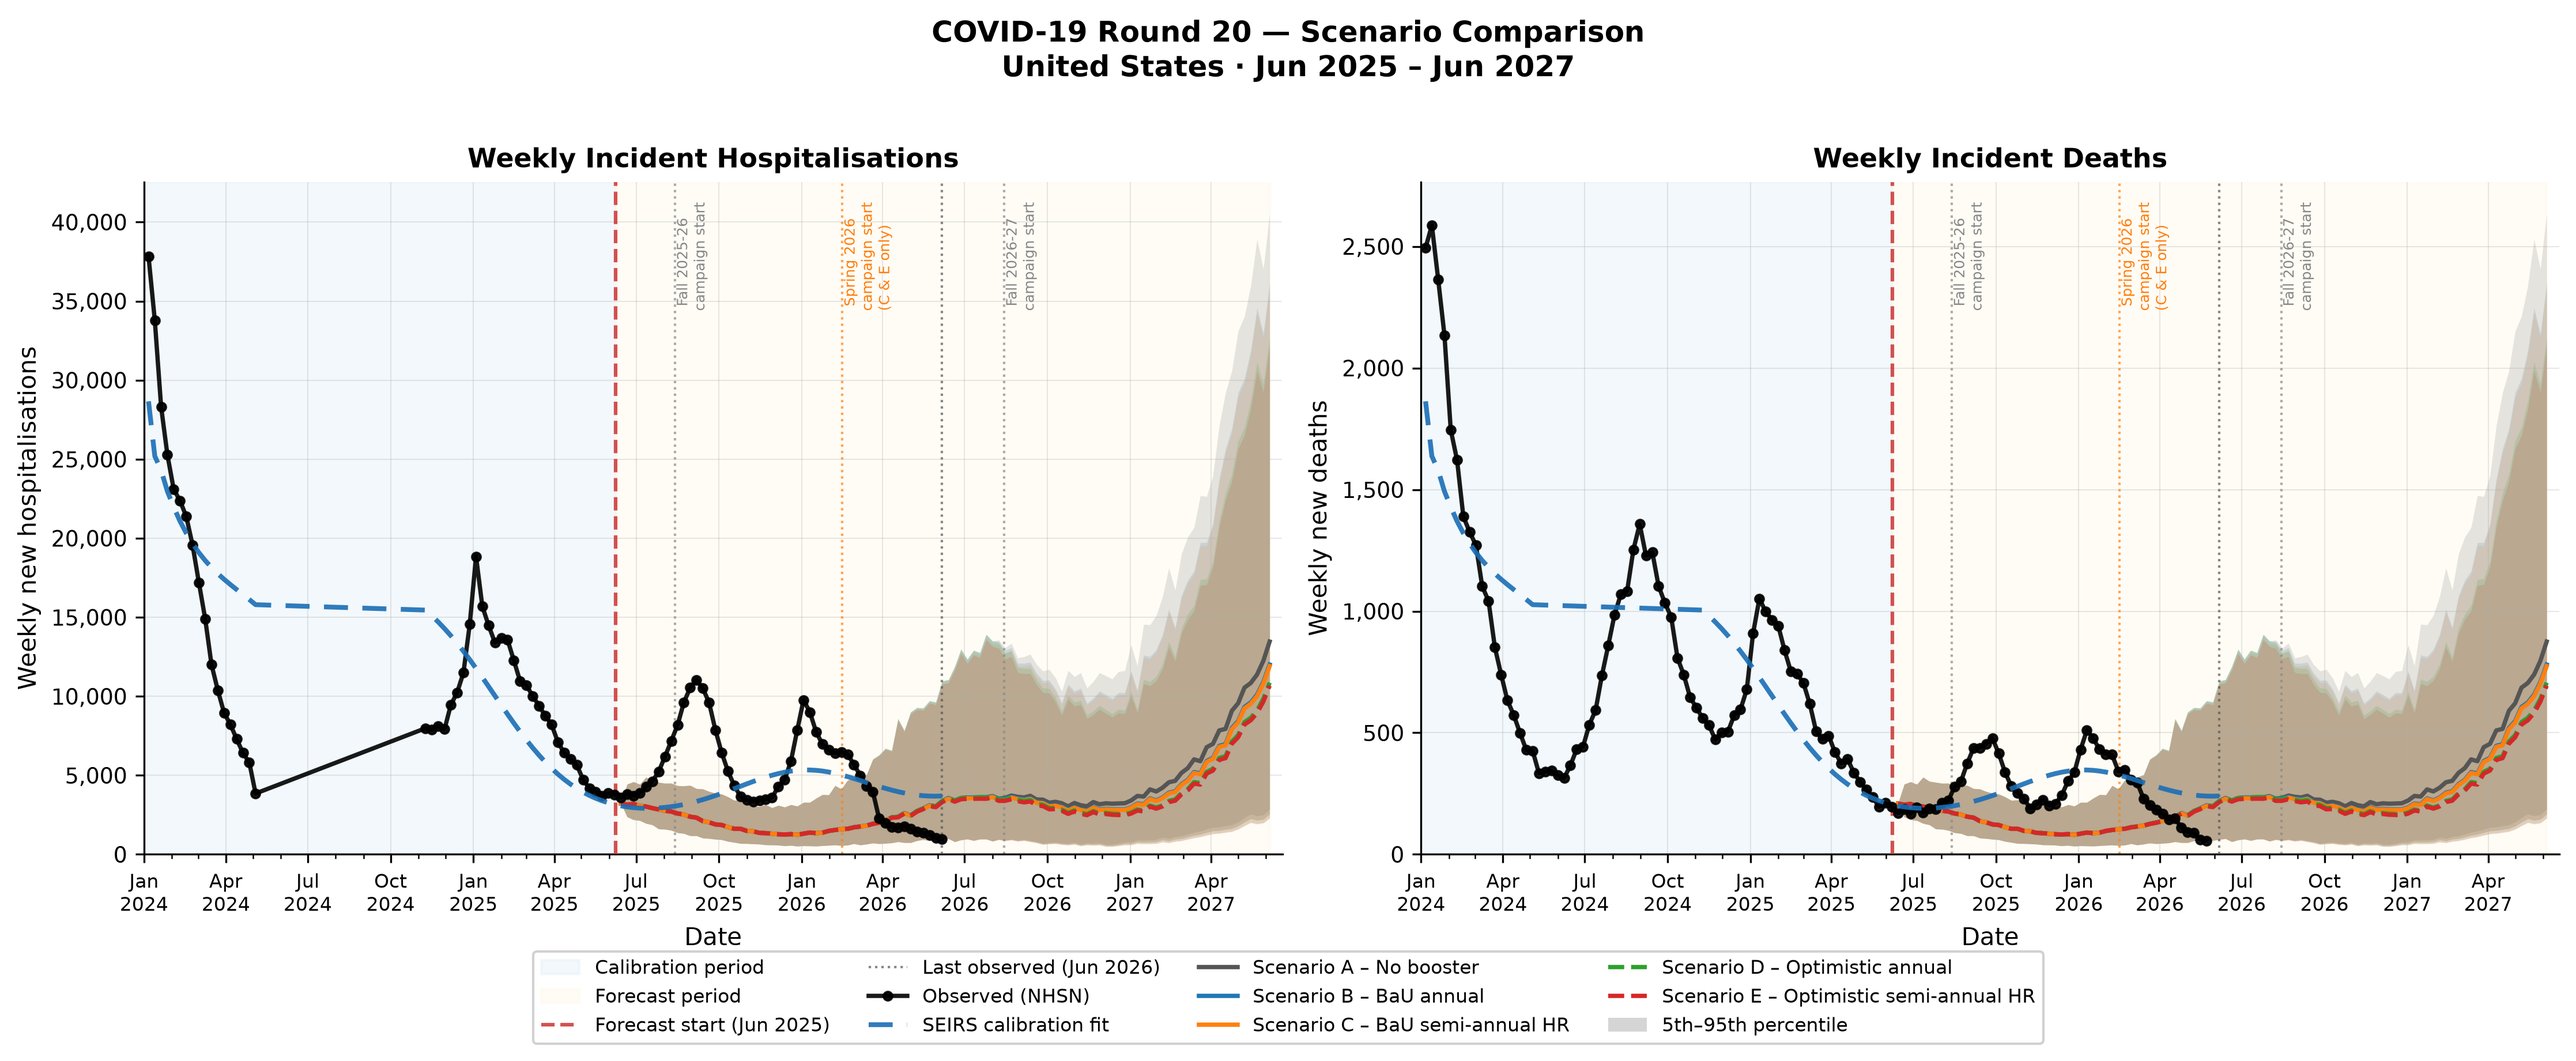
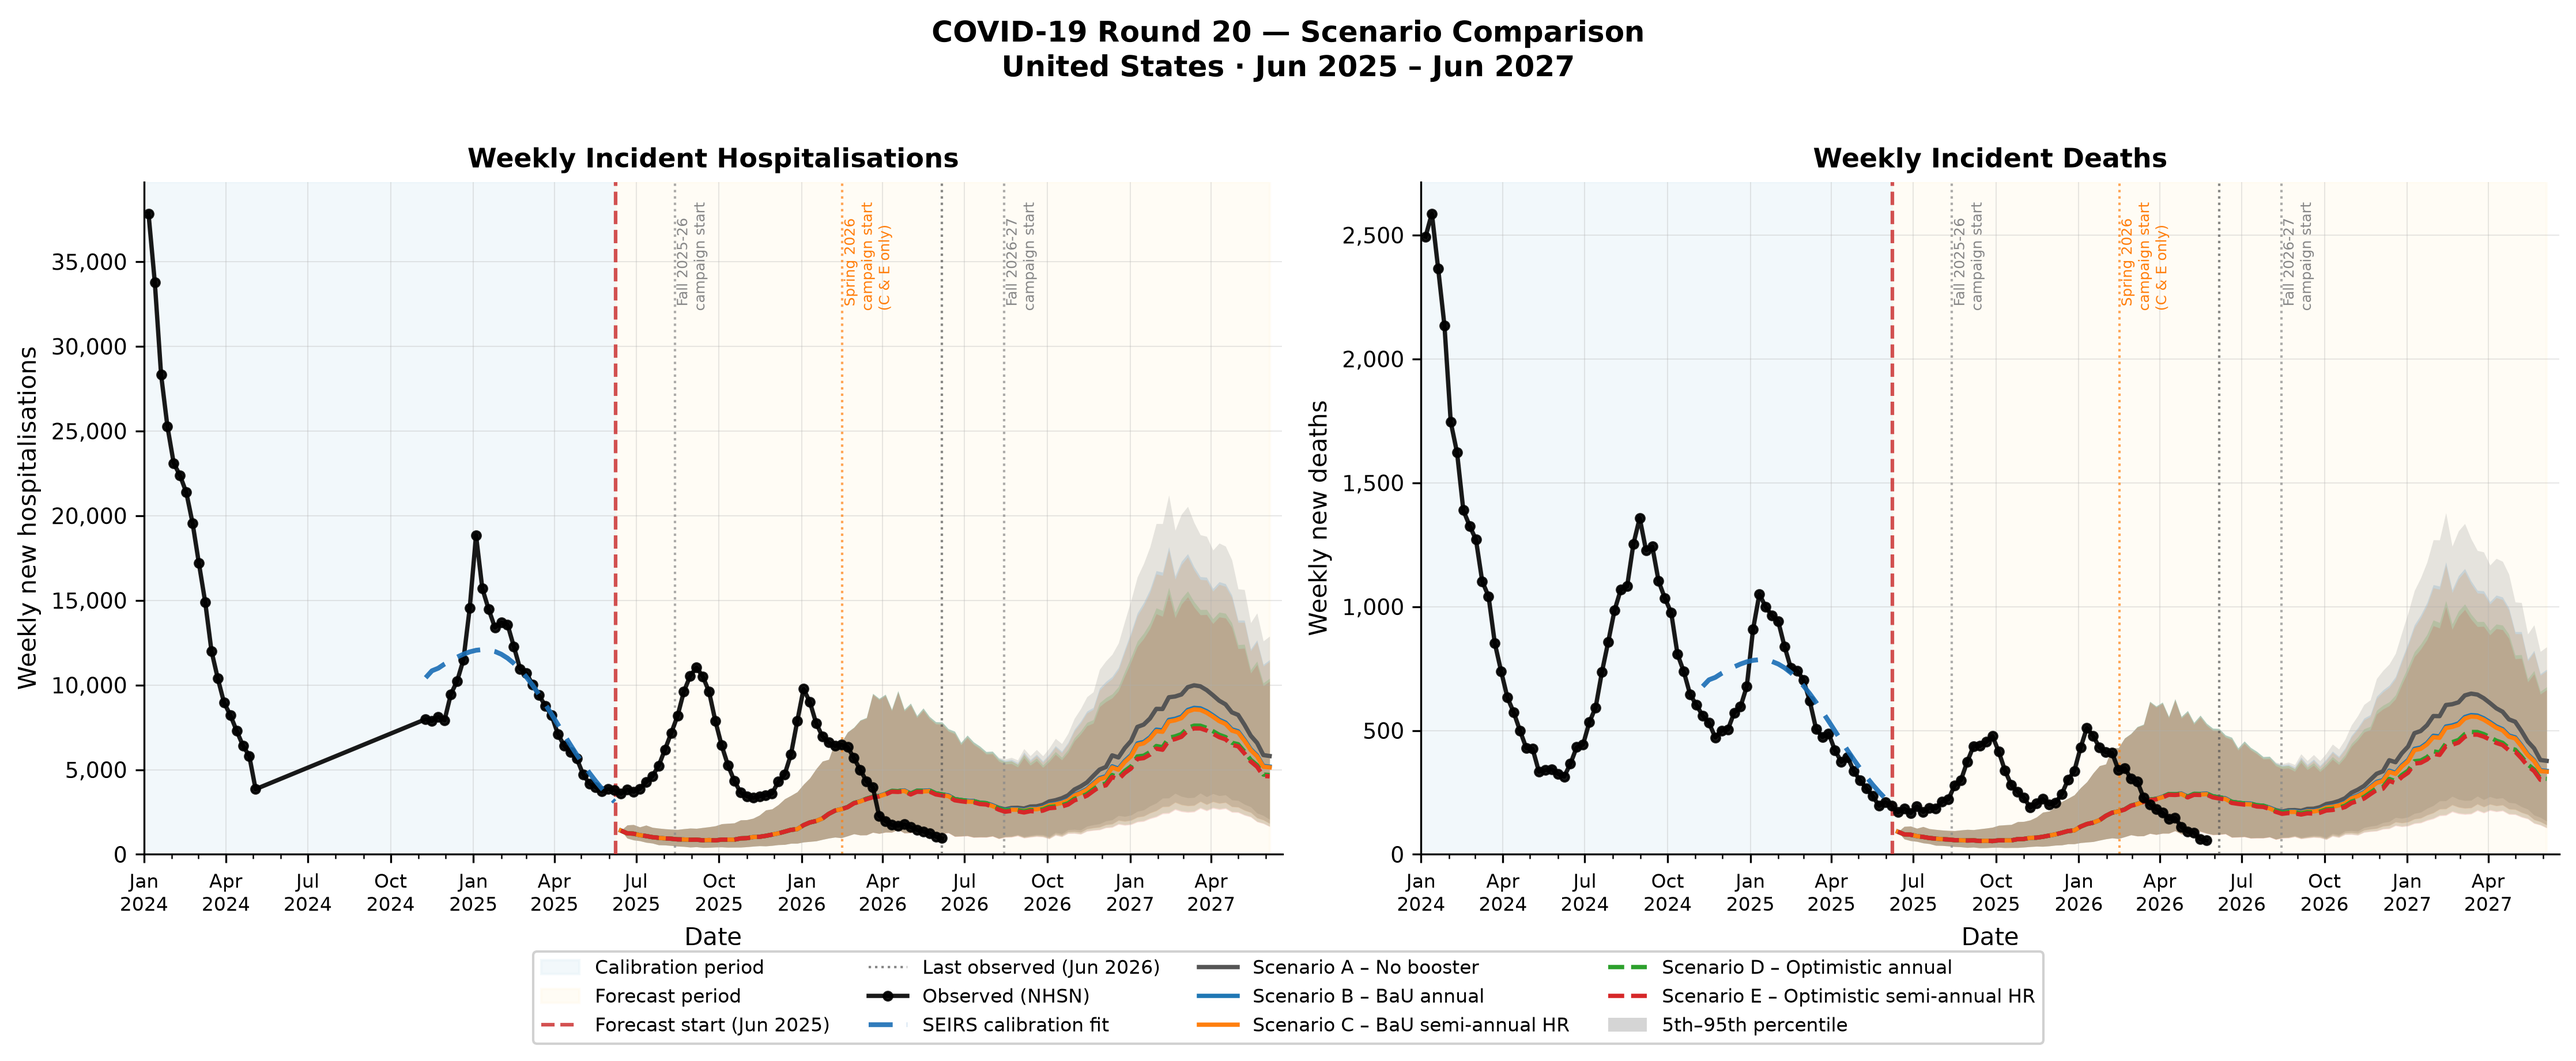
Improve calibration using recent-year weighted fitting

diff --git a/my_model/simulate.py b/my_model/simulate.py
@@ -387,14 +387,22 @@ def _calibration_loss(
     obs_hosp: np.ndarray,
     population: int,
     start_epiweek: int,
+    weights: Optional[np.ndarray] = None,
 ) -> float:
     """
-    Least-squares loss in log-space between simulated and observed hosp.
+    Weighted least-squares loss in log-space between simulated and observed hosp.
 
     Parameters ``theta`` = [log10_beta0, seasonal_amp, seasonal_phase,
                              log10_p_hosp, log10_i0].
 
-    Returns sum of squared log-residuals (ignores NaN observations).
+    weights : 1-D float array of length len(obs_hosp).  Each squared
+              log-residual is multiplied by the corresponding weight before
+              summation, so higher-weight weeks pull the fit more strongly.
+              Weights are internally normalised to sum to n_valid so the
+              loss magnitude stays comparable to the unweighted version.
+              None → uniform weights (legacy behaviour).
+
+    Returns weighted sum of squared log-residuals (ignores NaN observations).
 
     Parameter bounds (physically motivated):
       log10_beta0  in [-1.5, 0.5]   → β0 in [0.03, 3.16] week⁻¹
@@ -448,7 +456,18 @@ def _calibration_loss(
     log_obs = np.log(np.where(obs_hosp[valid] > 0, obs_hosp[valid], 1.0))
     log_sim = np.log(np.where(sim_hosp[:n_weeks][valid] > 0, sim_hosp[:n_weeks][valid], 1.0))
 
-    fit_loss = float(np.sum((log_obs - log_sim) ** 2))
+    sq_res = (log_obs - log_sim) ** 2
+
+    # ── Apply per-week weights ────────────────────────────────────────────
+    if weights is not None:
+        w = np.asarray(weights, dtype=float)[valid]
+        # Normalise so weights sum to n_valid — loss stays comparable
+        # to the unweighted case and the stability/scale penalties don't
+        # need rescaling.
+        w = w * (float(valid.sum()) / w.sum())
+        fit_loss = float(np.sum(w * sq_res))
+    else:
+        fit_loss = float(np.sum(sq_res))
 
     # ── Stability penalty ─────────────────────────────────────────────────
     # Penalise models where hosp in the extended window exceeds 2× the
@@ -480,20 +499,28 @@ def calibrate_seirs(
     location: str = "US",
     maxiter: int = 1500,
     seed: int = 0,
+    weights: Optional[np.ndarray] = None,
 ) -> SEIRSParams:
     """
     Calibrate SEIRS parameters for one location using Nelder-Mead optimisation
-    on log-space least-squares residuals.
+    on weighted log-space least-squares residuals.
 
     Parameters
     ----------
     obs_hosp       : Array of observed weekly incident hospitalisations
                      (length = calibration window in weeks; NaN = missing).
+                     Should be the most recent CAL_WINDOW_WEEKS observations
+                     for best near-origin alignment.
     population     : Total population of the jurisdiction.
     start_epiweek  : Epi-week (1–52) of the first observation.
     location       : FIPS code (for logging only).
     maxiter        : Maximum Nelder-Mead iterations.
     seed           : Not used (deterministic calibration); kept for API compat.
+    weights        : Optional 1-D float array of length len(obs_hosp).
+                     Larger value → that week's residual counts more.
+                     Typically exponentially increasing so the most recent
+                     weeks dominate (e.g. last week weight ≈ 8× first week).
+                     None → uniform weights.
 
     Returns
     -------
@@ -522,7 +549,7 @@ def calibrate_seirs(
         result = minimize(
             _calibration_loss,
             x0,
-            args=(obs_hosp, population, start_epiweek),
+            args=(obs_hosp, population, start_epiweek, weights),
             method="Nelder-Mead",
             options={"maxiter": maxiter, "xatol": 5e-4, "fatol": 5e-4, "disp": False},
         )
@@ -715,13 +742,25 @@ def get_calibrated_params(
         pop_map = get_population_map()
         population = pop_map.get(location, 330_000_000)
 
-    # ── Calibration data ─────────────────────────────────────────────────
+    # ── Calibration data — most recent 52 weeks before projection origin ──
+    # Using only the last CAL_WINDOW_WEEKS keeps the fitted parameters
+    # representative of the current epidemic trajectory and ensures the
+    # calibration curve aligns closely with the first forecast week.
+    from load_data import ORIGIN_DATE as _ORIGIN  # noqa: PLC0415
+
+    CAL_WINDOW_WEEKS: int = 52
+    # Last Saturday strictly before ORIGIN_DATE (a Sunday)
+    cal_max_date = _ORIGIN - pd.Timedelta(days=1)          # Saturday 2025-06-07
+    cal_min_date = cal_max_date - pd.Timedelta(weeks=CAL_WINDOW_WEEKS - 1)
+    # Never request data before the global calibration start floor
+    cal_min_date = max(cal_min_date, CAL_START)
+
     obs_df = load_target_data(
         location_filter=[location],
         target_filter=["inc hosp"],
         age_group_filter=["0-130"],
-        min_date=CAL_START,
-        max_date=CAL_END,
+        min_date=cal_min_date,
+        max_date=cal_max_date,
     ).sort_values("date")
 
     if obs_df.empty:
@@ -736,6 +775,27 @@ def get_calibrated_params(
 
     obs_hosp      = obs_df["observation"].values.astype(float)
     start_epiweek = int(obs_df["date"].iloc[0].isocalendar()[1])
+    n_cal         = len(obs_hosp)
+
+    # ── Exponential weights: last week ≈ 8× first week ───────────────────
+    # weight[t] = exp(log(8) * t / (n-1))  → [1.0, …, 8.0]
+    # Recent observations dominate so the fitted curve tracks the trend
+    # entering the forecast, keeping the transition gap minimal.
+    WEIGHT_RATIO: float = 8.0
+    raw_weights = np.exp(
+        np.log(WEIGHT_RATIO) * np.arange(n_cal) / max(n_cal - 1, 1)
+    )
+
+    logger.info(
+        "get_calibrated_params [%s]: window %s → %s  n=%d  "
+        "weights [%.2f, %.2f]",
+        location,
+        obs_df["date"].iloc[0].date(),
+        obs_df["date"].iloc[-1].date(),
+        n_cal,
+        raw_weights.min(),
+        raw_weights.max(),
+    )
 
     # ── Calibrate ────────────────────────────────────────────────────────
     params = calibrate_seirs(
@@ -743,6 +803,7 @@ def get_calibrated_params(
         population=population,
         start_epiweek=start_epiweek,
         location=location,
+        weights=raw_weights,
     )
 
     _PARAMS_CACHE[cache_key] = params
@@ -754,15 +815,25 @@ def get_calibrated_params(
 # ===========================================================================
 
 def build_cal_dates(
-    min_date: pd.Timestamp = CAL_START,
-    max_date: pd.Timestamp = CAL_END,
+    min_date: Optional[pd.Timestamp] = None,
+    max_date: Optional[pd.Timestamp] = None,
     location: str = "US",
 ) -> pd.DatetimeIndex:
     """
     Return the DatetimeIndex of epi-week Saturdays within the calibration window
     for which observed data exists.
+
+    Defaults to the same 52-week window used by ``get_calibrated_params`` so
+    that the calibration fit overlay on plots exactly matches what was fitted.
+    Pass explicit ``min_date`` / ``max_date`` to override.
     """
-    from load_data import load_target_data  # noqa: PLC0415
+    from load_data import load_target_data, ORIGIN_DATE as _ORIGIN  # noqa: PLC0415
+
+    if max_date is None:
+        max_date = _ORIGIN - pd.Timedelta(days=1)          # 2025-06-07
+    if min_date is None:
+        min_date = max_date - pd.Timedelta(weeks=51)       # 52-week window
+        min_date = max(min_date, CAL_START)
 
     obs_df = load_target_data(
         location_filter=[location],
